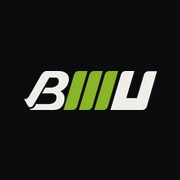
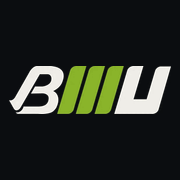
facicon  updated

Changed region(s): [[0.0556, 0.3611, 0.9722, 0.6389]]

diff --git a/src/app/layout.tsx b/src/app/layout.tsx
@@ -8,15 +8,17 @@ export const metadata: Metadata = {
   // canonical and Open Graph URLs are resolved against the live domain
   metadataBase: new URL(site.url),
   // Each page sets its own name ("About", "Our Work"); the tab reads "About | BMU Marketing".
-  // The tab icon is the BMU mark from the logo: icon.svg (white letters on dark browser themes,
-  // navy on light ones), favicon.ico for older browsers, apple-icon.png for phone home screens –
-  // the files next to this one.
+  // Two logos, in the files next to this one. The tab uses icon.svg: the BMU mark on nothing, white
+  // letters on dark browser themes, navy on light ones. favicon.ico and apple-icon.png are the
+  // mark on a solid dark square – what Google shows beside results, on a white circle that white
+  // letters would vanish into – and phone home screens use.
   title: {
     default: 'BMU Marketing – Build Your Brand’s Universe',
     template: `%s | ${site.name}`,
   },
   description:
     'Bengaluru’s all-in-one digital growth studio: strategic marketing, design and digital experiences built to drive growth.',
+  openGraph: { type: 'website', siteName: site.name, locale: 'en_IN' },
 };
 
 // Shared by every page: fonts, base styles and the "no internet / can't be reached / slow" card.

diff --git a/src/app/(site)/page.tsx b/src/app/(site)/page.tsx
@@ -1,3 +1,5 @@
+import type { Metadata } from 'next';
+import { businessSchema, websiteSchema } from '@/lib/pseo/schema';
 import {
   LandingAllServices,
   LandingConversionRate,
@@ -7,10 +9,22 @@ import {
   LandingPricing,
 } from '@/sections/landing';
 
+export const metadata: Metadata = {
+  alternates: { canonical: '/' },
+};
+
+// Structured data for Google, as one JSON-LD graph ("<" escaped so the text can never close the
+// script tag) – the same way the pSEO and blog pages add theirs
+const schema = JSON.stringify({
+  '@context': 'https://schema.org',
+  '@graph': [websiteSchema(), businessSchema()],
+}).replace(/</g, '\\u003c');
+
 // Landing page – add new sections below in display order
 export default function Home() {
   return (
     <main>
+      <script type="application/ld+json" dangerouslySetInnerHTML={{ __html: schema }} />
       <LandingHero />
       <LandingAllServices />
       <LandingConversionRate />

diff --git a/src/lib/pseo/schema.ts b/src/lib/pseo/schema.ts
@@ -11,6 +11,7 @@ export const businessSchema = () => ({
   '@id': `${site.url}/#business`,
   name: site.name,
   url: site.url,
+  logo: absolute(site.logo),
   telephone: site.phone,
   email: site.email,
   address: {
@@ -23,6 +24,17 @@ export const businessSchema = () => ({
   },
   geo: { '@type': 'GeoCoordinates', latitude: site.coords[0], longitude: site.coords[1] },
   ...(site.sameAs.length ? { sameAs: site.sameAs } : {}),
+});
+
+// The site itself, on the home page – how Google learns to show "BMU Marketing" above our results
+// instead of the domain
+export const websiteSchema = () => ({
+  '@type': 'WebSite',
+  '@id': `${site.url}/#website`,
+  name: site.name,
+  alternateName: 'BMU',
+  url: site.url,
+  publisher: { '@id': `${site.url}/#business` },
 });
 
 export const serviceSchema = ({

diff --git a/next.config.ts b/next.config.ts
@@ -29,6 +29,13 @@ const nextConfig: NextConfig = {
   // Locality aliases from the pSEO sheet (LOCALITY_ALIASES): one place, one set of pages
   async redirects() {
     return [
+      // One address for the whole site, the one Google lists (site.url in src/data/site.ts)
+      {
+        source: '/:path*',
+        has: [{ type: 'host', value: 'bmumarketing.in' }],
+        destination: 'https://www.bmumarketing.in/:path*',
+        permanent: true,
+      },
       // Articles moved from /work/<slug> to /blog/<slug> – old links keep working
       { source: '/work/:slug', destination: '/blog/:slug', permanent: true },
       {

diff --git a/src/data/site.ts b/src/data/site.ts
@@ -3,7 +3,9 @@
 
 export const site = {
   name: 'BMU Marketing',
-  url: 'https://bmumarketing.in', // the live domain – canonical URLs and the sitemap are built from it
+  url: 'https://www.bmumarketing.in', // the live domain – canonical URLs and the sitemap are built from it
+  // For Google and other sites: solid, so it reads on any background (the tab icon is src/app/icon.svg)
+  logo: '/images/common/bmu-logo-tile.png',
   phone: '+91 81054 91414',
   phoneHref: 'tel:+918105491414',
   whatsapp: 'https://wa.me/918105491414',

diff --git a/src/lib/blog/schema.ts b/src/lib/blog/schema.ts
@@ -18,7 +18,7 @@ const publisher = () => ({
   '@id': `${site.url}/#organization`,
   name: site.name,
   url: site.url,
-  logo: { '@type': 'ImageObject', url: absolute('/images/common/bmu-logo-light.webp') },
+  logo: { '@type': 'ImageObject', url: absolute(site.logo) },
 });
 
 /** Everything Google needs about one article: the post, its FAQs and its breadcrumb */

diff --git a/src/app/(site)/team/page.tsx b/src/app/(site)/team/page.tsx
@@ -3,6 +3,7 @@ import { TeamFounders, TeamHero, TeamMembers } from '@/sections/team';
 
 export const metadata: Metadata = {
   title: 'Our Team',
+  alternates: { canonical: '/team' },
   description:
     'Meet the founders and the team behind BMU Marketing – strategists, designers, editors and engineers in Bengaluru.',
 };

diff --git a/src/app/(site)/privacy-policy/page.tsx b/src/app/(site)/privacy-policy/page.tsx
@@ -3,6 +3,7 @@ import { PrivacyPolicy } from '@/sections/privacy';
 
 export const metadata: Metadata = {
   title: 'Privacy Policy',
+  alternates: { canonical: '/privacy-policy' },
   description:
     'How BMU Marketing collects, uses, stores and protects your personal information – and your rights over it.',
 };

diff --git a/src/app/(site)/contact/page.tsx b/src/app/(site)/contact/page.tsx
@@ -3,6 +3,7 @@ import { ContactFaq, ContactHero } from '@/sections/contact';
 
 export const metadata: Metadata = {
   title: 'Contact',
+  alternates: { canonical: '/contact' },
   description:
     'Tell us about your business. We reply within one working day, or drop by the studio in Bengaluru.',
 };

diff --git a/src/app/(site)/work/page.tsx b/src/app/(site)/work/page.tsx
@@ -5,6 +5,7 @@ import { WorkHero } from '@/sections/work';
 
 export const metadata: Metadata = {
   title: 'Our Work',
+  alternates: { canonical: '/work' },
   description:
     'Brands, websites, campaigns and films BMU Marketing has built for businesses across Bengaluru and India.',
 };

diff --git a/src/app/(site)/about/page.tsx b/src/app/(site)/about/page.tsx
@@ -12,6 +12,7 @@ import {
 
 export const metadata: Metadata = {
   title: 'About',
+  alternates: { canonical: '/about' },
   description:
     'From a Bengaluru real estate agency to one team for every digital service – the story, principles and people behind BMU Marketing.',
 };
